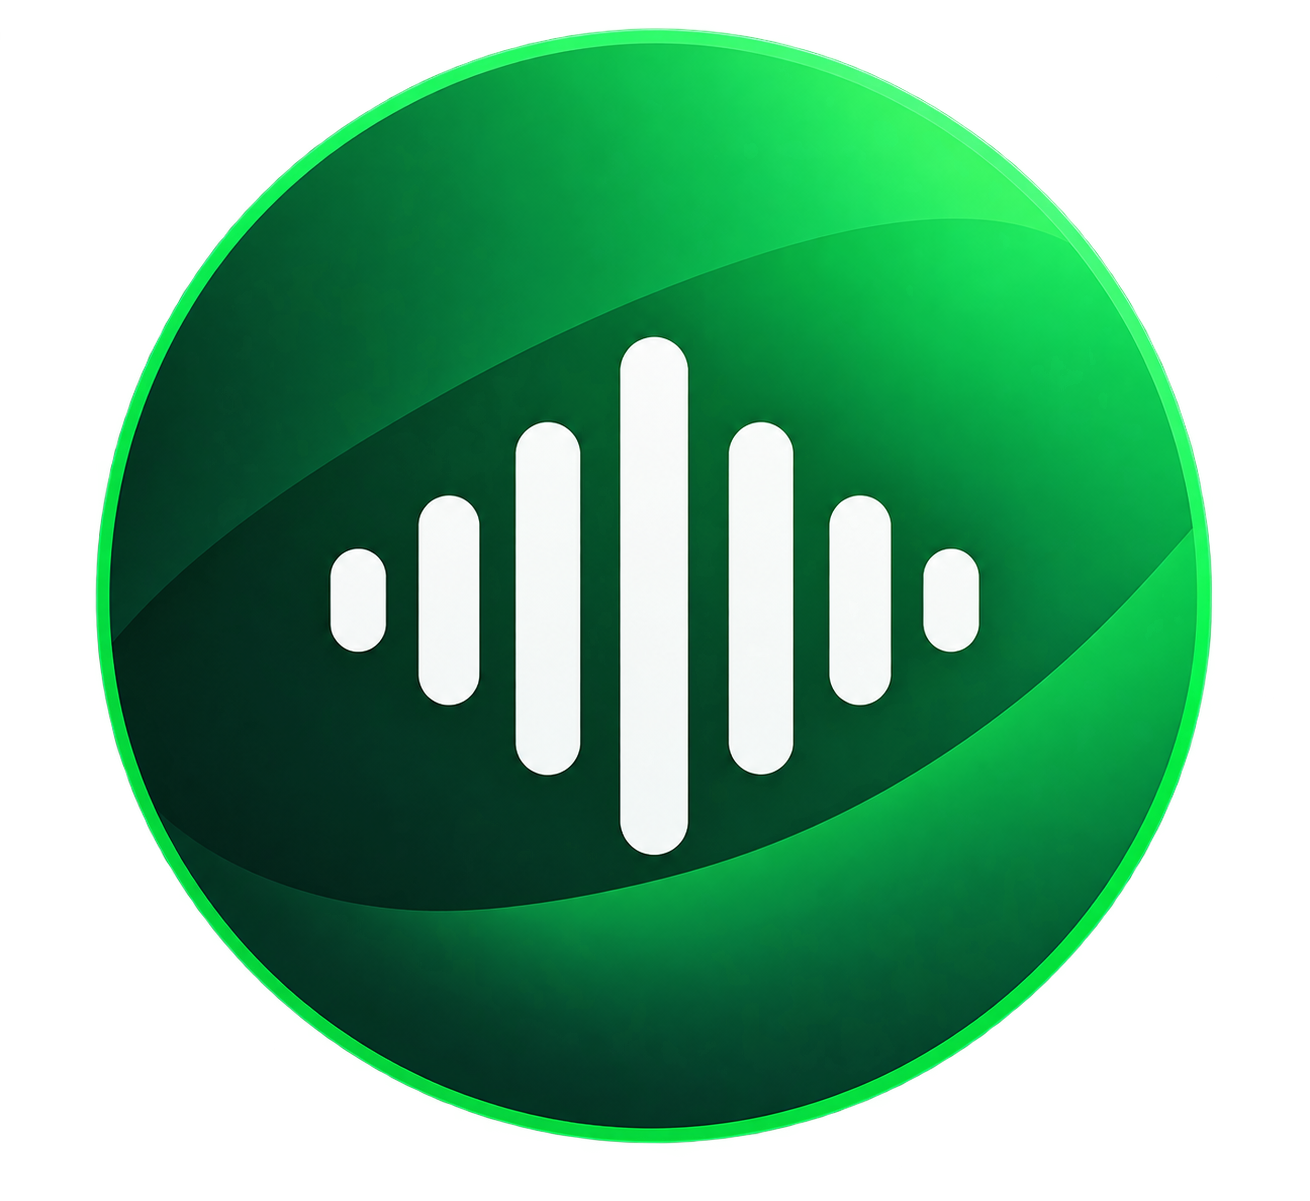
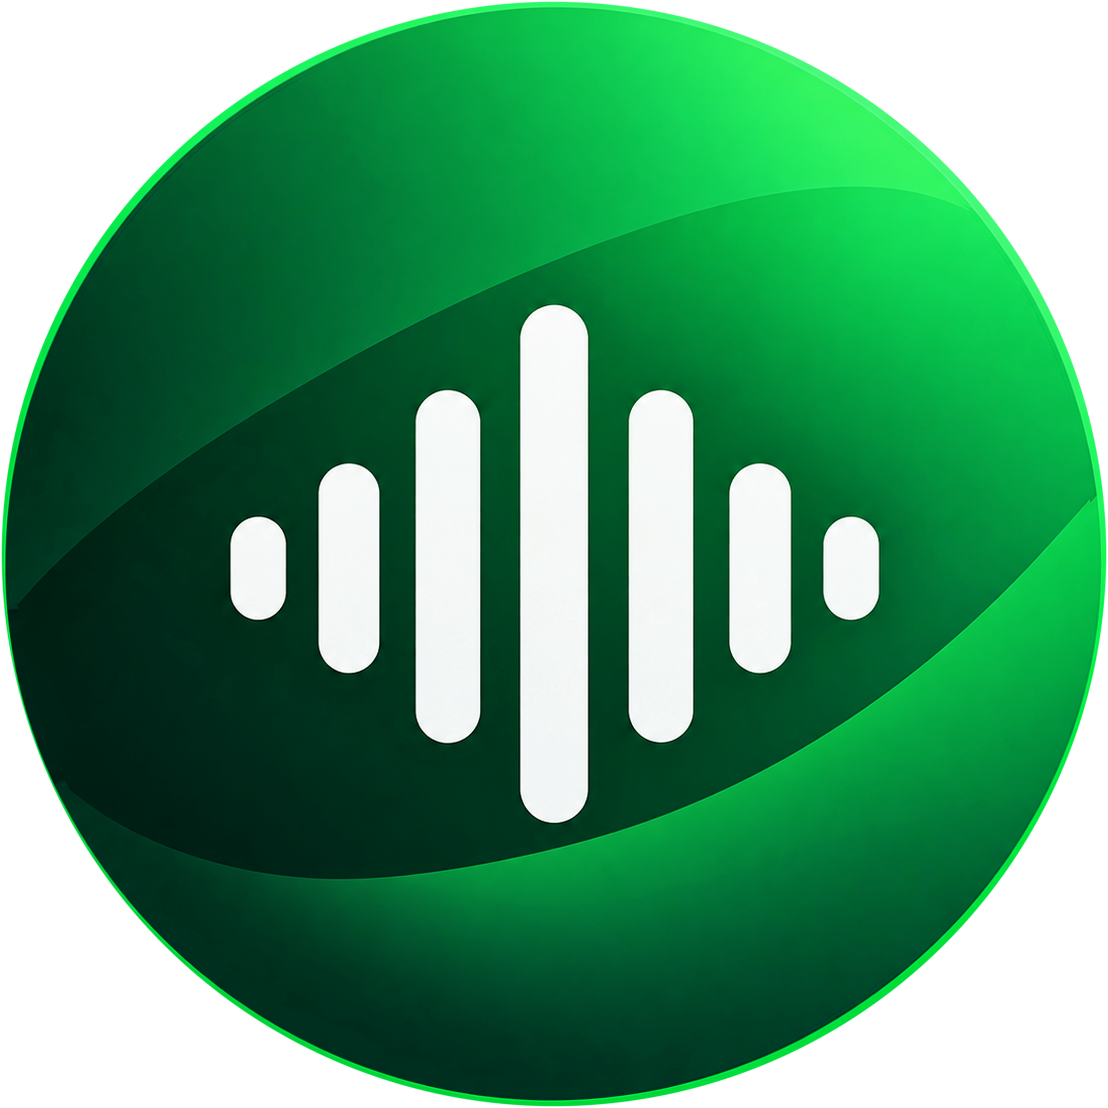
Update player.css and index.html for improved styling and layout. Increment version number for player.css in index.html. Modify brand image styling for better responsiveness and visual consistency.

diff --git a/www/css/player.css b/www/css/player.css
@@ -112,20 +112,16 @@ input {
   height: 32px;
   border-radius: 50%;
   overflow: hidden;
-  position: relative;
   flex-shrink: 0;
   background: transparent;
+  transform: translateZ(0);
 }
 
 .brand-mark img {
-  position: absolute;
-  /* music.png is 1310x1201 with an 1113px circle at (96, 28) */
-  width: calc(1310 / 1113 * 100%);
-  height: calc(1201 / 1113 * 100%);
-  left: calc(-96 / 1113 * 100%);
-  top: calc(-28 / 1113 * 100%);
-  max-width: none;
+  width: 100%;
+  height: 100%;
   display: block;
+  object-fit: cover;
 }
 
 .brand-name {

diff --git a/www/index.html b/www/index.html
@@ -6,7 +6,7 @@
   <title>EMP</title>
   <link rel="stylesheet" href="lib/bootstrap/5.3.8/bootstrap.min.css">
   <link rel="stylesheet" href="lib/bootstrap-icons/1.13.1/bootstrap-icons.min.css">
-  <link rel="stylesheet" href="css/player.css?v=41">
+  <link rel="stylesheet" href="css/player.css?v=42">
 </head>
 <body>
   <div class="app-shell">
